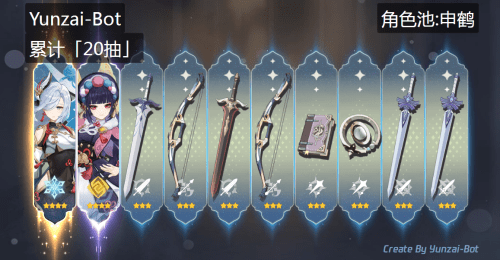
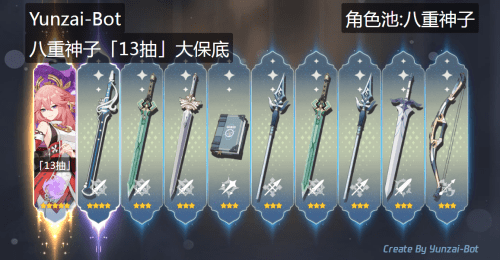
更新八重神子资源

Changed region(s): [[0.06, 0.1231, 0.93, 0.8923], [0.66, 0.0, 0.96, 0.1538]]

diff --git a/config/genshin/roleId.js b/config/genshin/roleId.js
@@ -48,19 +48,18 @@ let roleId = {
   10000050: ["托马", "家政官", "太郎丸", "地头蛇","男仆"],
   10000055: ["五郎","柴犬","土狗"],
   10000057: ["荒泷一斗", "一斗", "一抖","荒泷","1斗","牛牛","斗子哥","牛子哥"],
+  10000058: ["八重神子","八重","神子","狐狸","想得美哦"],
   10000063: ["申鹤", "神鹤",],
   10000064: ["云堇","云瑾","云先生"],
 
   //卫星角色
-  10000000: [
-    "八重神子","八重","神子","狐狸","想得美哦",   
-  ],
+  10000000: [],
 };
 
 //wife
 let wifeData = [
   //成女
-  [10000003,10000006,10000007,10000014,10000021,10000023,10000024,10000027,10000031,10000034,10000037,10000041,10000042,10000043,10000044,10000045,10000046,10000048,10000051,10000002,10000049,10000052,10000054,10000056,10000062,10000063,10000064],
+  [10000003,10000006,10000007,10000014,10000021,10000023,10000024,10000027,10000031,10000034,10000037,10000041,10000042,10000043,10000044,10000045,10000046,10000048,10000051,10000002,10000049,10000052,10000054,10000056,10000058,10000062,10000063,10000064],
   //成男
   [10000005,10000015,10000016,10000020,10000022,10000025,10000026,10000030,10000032,10000033,10000036,10000038,10000047,10000050,10000055,10000057],
   //萝莉

diff --git a/config/genshin/gacha.js b/config/genshin/gacha.js
@@ -33,6 +33,14 @@ let gachaConfig = {
       up5_2: ["甘雨"],
       endTime: "2022-2-8 18:00:00",
     },
+    {
+      //up的四星角色
+      up4: ["托马", "早柚", "九条裟罗"],
+      //up的五星角色
+      up5: ["八重神子"],
+      up5_2: ["心海"],
+      endTime: "2022-3-1 18:00:00",
+    },
   ],
 };
 

diff --git a/config/genshin/element.js b/config/genshin/element.js
@@ -26,6 +26,7 @@ let element = {
   丽莎: "雷",
   雷电将军: "雷",
   九条裟罗: "雷",
+  八重神子: "雷",
 
   阿贝多: "岩",
   钟离: "岩",
